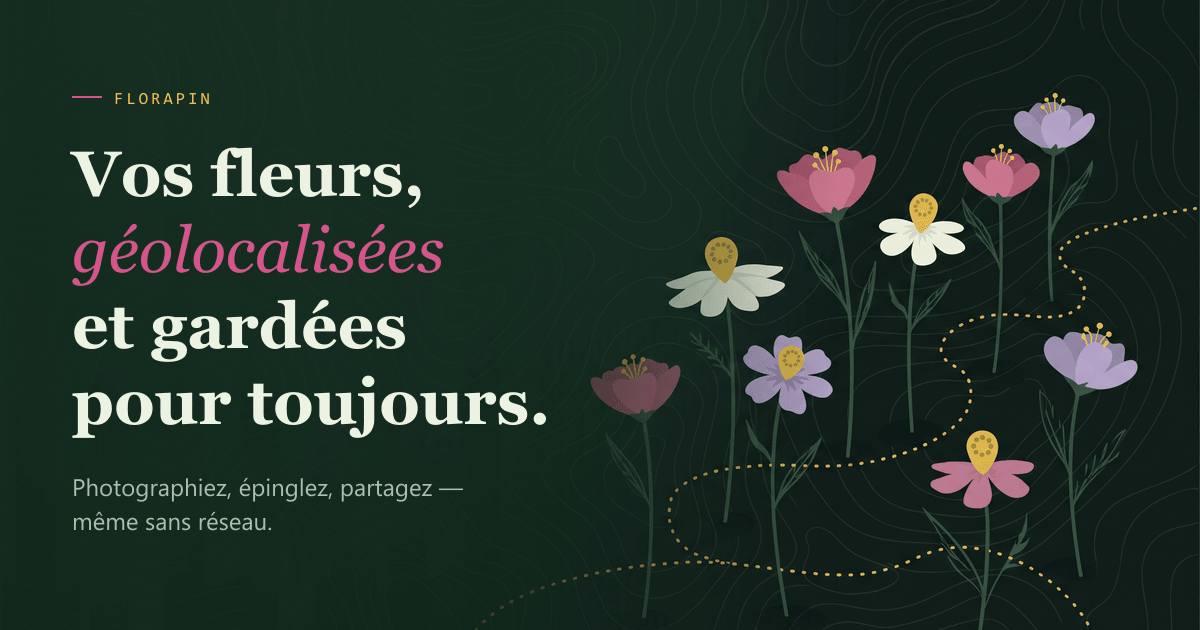
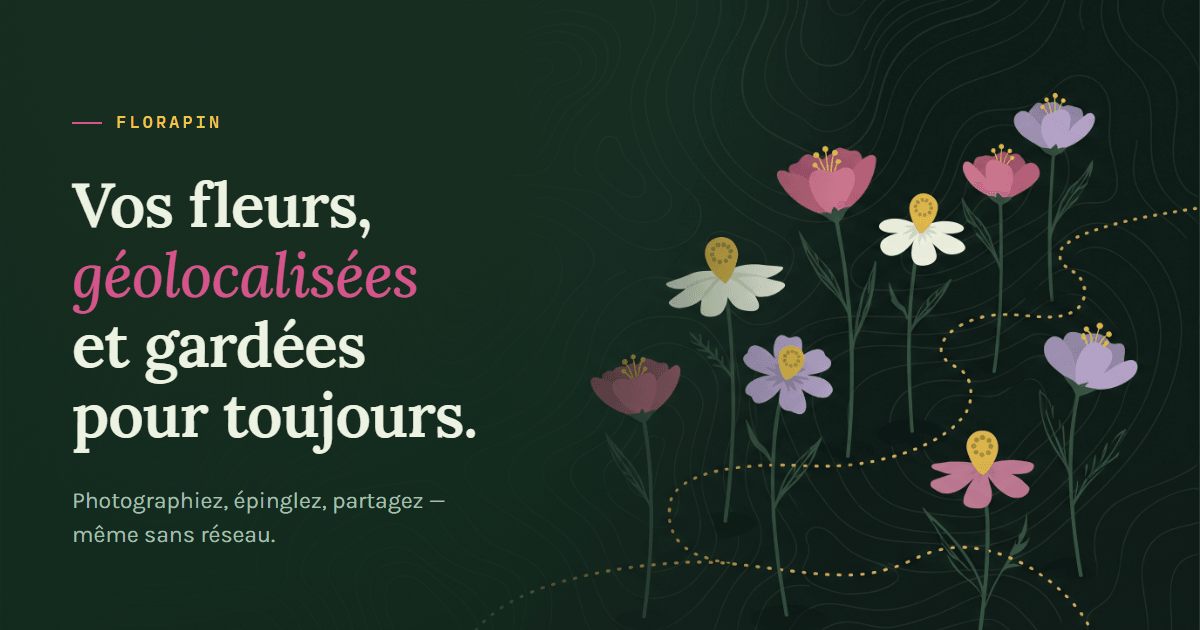
release(1.14.1): typographie des titres Fraunces -> Lora
Appliqué des deux côtés pour garder une marque cohérente : --font-display de la
vitrine et DisplayFontFamily de l'app (toujours via Downloadable Fonts, aucun
binaire embarqué). Lora est variable (400->700), les graisses en place passent
inchangées.

L'og-image est régénérée en Lora : elle est désormais rendue par une capture
headless d'une page HTML utilisant les vraies polices web, au lieu d'être
composée par sharp qui n'avait accès qu'aux polices système (Georgia). Elle perd
au passage 50 Ko (palette PNG, sans banding).

diff --git a/app/src/main/java/com/florapin/app/ui/theme/Type.kt b/app/src/main/java/com/florapin/app/ui/theme/Type.kt
@@ -12,9 +12,9 @@ import com.florapin.app.R
 // Typographie organique FloraPin (NODE-84).
 //
 // Polices via Downloadable Fonts (Google Fonts) — aucun binaire à embarquer :
-//   • Titres (display/headline)  → Fraunces : serif chaleureux, organique.
-//   • Corps & libellés (title/body/label) → Inter : lisible, déjà utilisée
-//     par la vitrine (cohérence de marque).
+//   • Titres (display/headline)  → Lora : serif chaleureux, la même que les
+//     titres de la vitrine (cohérence de marque).
+//   • Corps & libellés (title/body/label) → Inter : lisible à petite taille.
 //
 // Le téléchargement est asynchrone : au tout premier rendu, avant que la
 // police soit en cache, Compose retombe sur la police système. Les certificats
@@ -27,10 +27,10 @@ private val provider = GoogleFont.Provider(
 )
 
 private val DisplayFontFamily = FontFamily(
-    Font(GoogleFont("Fraunces"), provider, FontWeight.Normal),
-    Font(GoogleFont("Fraunces"), provider, FontWeight.Medium),
-    Font(GoogleFont("Fraunces"), provider, FontWeight.SemiBold),
-    Font(GoogleFont("Fraunces"), provider, FontWeight.Bold),
+    Font(GoogleFont("Lora"), provider, FontWeight.Normal),
+    Font(GoogleFont("Lora"), provider, FontWeight.Medium),
+    Font(GoogleFont("Lora"), provider, FontWeight.SemiBold),
+    Font(GoogleFont("Lora"), provider, FontWeight.Bold),
 )
 
 private val BodyFontFamily = FontFamily(
@@ -40,7 +40,7 @@ private val BodyFontFamily = FontFamily(
     Font(GoogleFont("Inter"), provider, FontWeight.Bold),
 )
 
-// Échelle Material 3 complète : display/headline en Fraunces (SemiBold pour
+// Échelle Material 3 complète : display/headline en Lora (SemiBold pour
 // du caractère), title/body/label en Inter. Métriques alignées sur le type
 // scale M3 par défaut, ajustées pour un rendu chaleureux.
 val Typography = Typography(

diff --git a/landing/src/changelog.md b/landing/src/changelog.md
@@ -18,6 +18,26 @@ Ce que l'application vous apporte de nouveau, version après version — sans ja
 
 ## En préparation
 
+## Version 1.14.1 — 10 juillet 2026
+
+### Nouveau
+- **Le site montre enfin l'application.** Trois écrans (la carte et ses bouquets
+  de fleurs regroupées, le détail d'une fleur, le flux de vos amis) remplacent
+  les cadres vides qui annonçaient des images « à venir ».
+
+### Amélioré
+- **Nouvelle police pour les titres**, dans l'application comme sur le site :
+  plus classique et plus facile à lire.
+- **Un aperçu s'affiche quand on partage le lien du site.** Envoyer l'adresse de
+  FloraPin par message ou sur un réseau social fait maintenant apparaître une
+  belle image au lieu d'un rectangle vide.
+- **Installation simplifiée.** L'application s'installe uniquement depuis le Play
+  Store : plus de fichier à télécharger à la main, ni d'avertissement Android sur
+  les « sources inconnues ».
+
+### Réparé
+- Le lien « Mentions légales » du bas de page menait à une page inexistante.
+
 ## Version 1.14 — 9 juillet 2026
 
 ### Nouveau

diff --git a/CHANGELOG.md b/CHANGELOG.md
@@ -17,6 +17,8 @@ et le projet suit le [versionnage sémantique](https://semver.org/lang/fr/).
 
 ## [Non publié]
 
+## [1.14.1] — 2026-07-10
+
 ### Ajouté
 - **Vitrine — aperçu de l'app.** La section « Captures d'écran à venir » est
   remplacée par trois mockups d'écran (carte + regroupements, détail d'une fleur,
@@ -29,6 +31,14 @@ et le projet suit le [versionnage sémantique](https://semver.org/lang/fr/).
   `theme-color`.
 
 ### Modifié
+- **Typographie des titres : Fraunces → Lora.** Appliqué des deux côtés pour
+  garder une marque cohérente : `--font-display` de la vitrine
+  (`Layout.astro`) et `DisplayFontFamily` de l'app (`ui/theme/Type.kt`, toujours
+  via Downloadable Fonts, aucun binaire embarqué). Lora est variable (400→700) :
+  les graisses en place (460/560/640 sur le web, Medium/SemiBold côté app)
+  passent inchangées. L'og-image est régénérée en Lora : elle est rendue par une
+  capture headless d'une page HTML (vraies polices web) au lieu d'être composée
+  par sharp, qui n'avait accès qu'aux polices système (Georgia).
 - **Vitrine — distribution par Google Play uniquement.** Le téléchargement direct
   de l'APK est retiré (bouton du hero, repli du CTA final, `DownloadButton.astro`,
   `DOWNLOAD_URL`/`DOWNLOAD_NOTE`/`DOWNLOAD_FILENAME`). `deploy.sh` ne copie plus

diff --git a/CHANGELOG_SIMPLE.md b/CHANGELOG_SIMPLE.md
@@ -18,12 +18,16 @@ Ce que l'application vous apporte de nouveau, version après version — sans ja
 
 ## En préparation
 
+## Version 1.14.1 — 10 juillet 2026
+
 ### Nouveau
 - **Le site montre enfin l'application.** Trois écrans (la carte et ses bouquets
   de fleurs regroupées, le détail d'une fleur, le flux de vos amis) remplacent
   les cadres vides qui annonçaient des images « à venir ».
 
 ### Amélioré
+- **Nouvelle police pour les titres**, dans l'application comme sur le site :
+  plus classique et plus facile à lire.
 - **Un aperçu s'affiche quand on partage le lien du site.** Envoyer l'adresse de
   FloraPin par message ou sur un réseau social fait maintenant apparaître une
   belle image au lieu d'un rectangle vide.